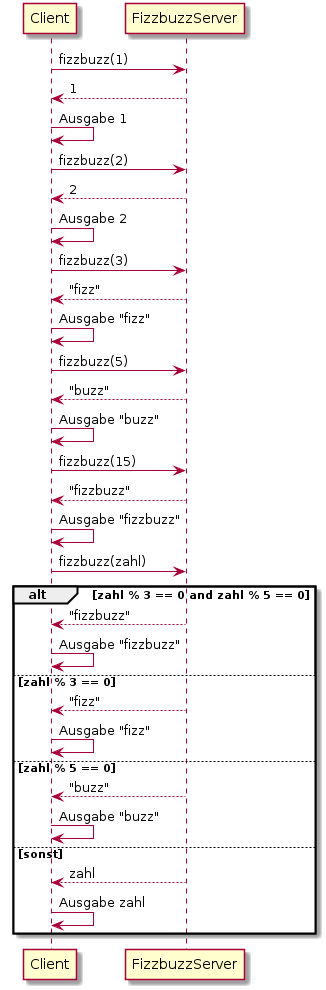
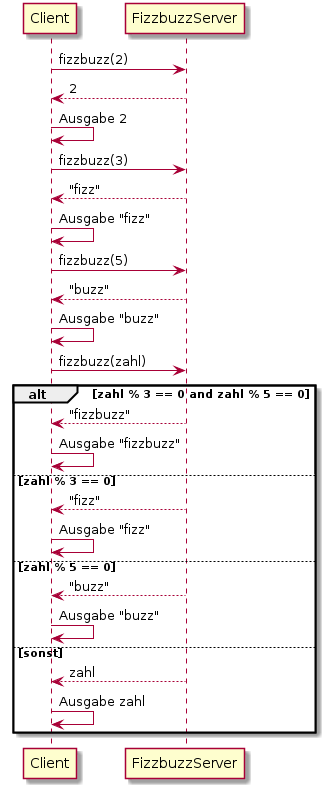
added class diagram, shortened sequence diagram.

diff --git a/fizzbuzz.html b/fizzbuzz.html
@@ -4,7 +4,7 @@
 <html xmlns="http://www.w3.org/1999/xhtml" lang="en" xml:lang="en">
 <head>
 <title>fizzbuzz</title>
-<!-- 2017-04-14 Fr 16:07 -->
+<!-- 2017-04-14 Fr 22:27 -->
 <meta  http-equiv="Content-Type" content="text/html;charset=utf-8" />
 <meta  name="generator" content="Org-mode" />
 <meta  name="author" content="Marco Bakera" />
@@ -170,6 +170,7 @@ for the JavaScript code in this tag.
 <li><a href="#sec-1-20">1.20. Auf einem Cluster (mit GNU parallel)</a></li>
 <li><a href="#sec-1-21">1.21. In einem UML-Aktivitätsdiagramm</a></li>
 <li><a href="#sec-1-22">1.22. In einem UML-Sequenzdiagramm</a></li>
+<li><a href="#sec-1-23">1.23. In einem UML-Klassendiagramm</a></li>
 </ul>
 </li>
 </ul>
@@ -1245,11 +1246,54 @@ ist eine Zahl oder ein String.
 </div>
 </div>
 </div>
+
+<div id="outline-container-sec-1-23" class="outline-3">
+<h3 id="sec-1-23"><span class="section-number-3">1.23</span> In einem UML-Klassendiagramm</h3>
+<div class="outline-text-3" id="text-1-23">
+
+<div class="figure">
+<p><img src="fizzbuzz-klassendiagramm.png" alt="fizzbuzz-klassendiagramm.png" />
+</p>
+</div>
+
+<p>
+Dies Klasse könnte wie folgt verwendet werden.
+</p>
+
+<div class="org-src-container">
+
+<pre class="src src-python"><span class="linenr"> 1: </span><span style="color: #a020f0;">class</span> <span style="color: #228b22;">FizzBuzz</span>:
+<span class="linenr"> 2: </span>    <span style="color: #a020f0;">def</span> <span style="color: #0000ff;">__init__</span>(<span style="color: #a020f0;">self</span>, n):
+<span class="linenr"> 3: </span>        <span style="color: #a020f0;">self</span>.num = n
+<span class="linenr"> 4: </span>
+<span class="linenr"> 5: </span>    <span style="color: #a020f0;">def</span> <span style="color: #0000ff;">fizzbuzz</span>(<span style="color: #a020f0;">self</span>):
+<span class="linenr"> 6: </span>        <span style="color: #a020f0;">if</span> <span style="color: #a020f0;">self</span>.num % 3 == 0 <span style="color: #a020f0;">and</span> <span style="color: #a020f0;">self</span>.num % 5 == 0:
+<span class="linenr"> 7: </span>            <span style="color: #a020f0;">return</span> <span style="color: #8b2252;">"fizzbuzz"</span>
+<span class="linenr"> 8: </span>        <span style="color: #a020f0;">elif</span> <span style="color: #a020f0;">self</span>.num % 3 == 0:
+<span class="linenr"> 9: </span>            <span style="color: #a020f0;">return</span> <span style="color: #8b2252;">"fizz"</span>
+<span class="linenr">10: </span>        <span style="color: #a020f0;">elif</span> <span style="color: #a020f0;">self</span>.num % 5 == 0:
+<span class="linenr">11: </span>            <span style="color: #a020f0;">return</span> <span style="color: #8b2252;">"buzz"</span>
+<span class="linenr">12: </span>        <span style="color: #a020f0;">else</span>:
+<span class="linenr">13: </span>            <span style="color: #a020f0;">return</span> <span style="color: #a020f0;">self</span>.num
+<span class="linenr">14: </span>
+<span class="linenr">15: </span><span style="color: #a0522d;">fb</span> = FizzBuzz(2)
+<span class="linenr">16: </span><span style="color: #a020f0;">print</span>(2, fb.fizzbuzz())
+<span class="linenr">17: </span><span style="color: #a0522d;">fb</span> = FizzBuzz(15)
+<span class="linenr">18: </span><span style="color: #a020f0;">print</span>(15, fb.fizzbuzz())
+</pre>
+</div>
+
+<pre class="example">
+2 2
+15 fizzbuzz
+</pre>
+</div>
+</div>
 </div>
 </div>
 <div id="postamble" class="status">
 <p class="author">Author: Marco Bakera</p>
-<p class="date">Created: 2017-04-14 Fr 16:07</p>
+<p class="date">Created: 2017-04-14 Fr 22:27</p>
 <p class="creator"><a href="http://www.gnu.org/software/emacs/">Emacs</a> 24.5.1 (<a href="http://orgmode.org">Org</a> mode 8.2.10)</p>
 <p class="validation"><a href="http://validator.w3.org/check?uri=referer">Validate</a></p>
 </div>
